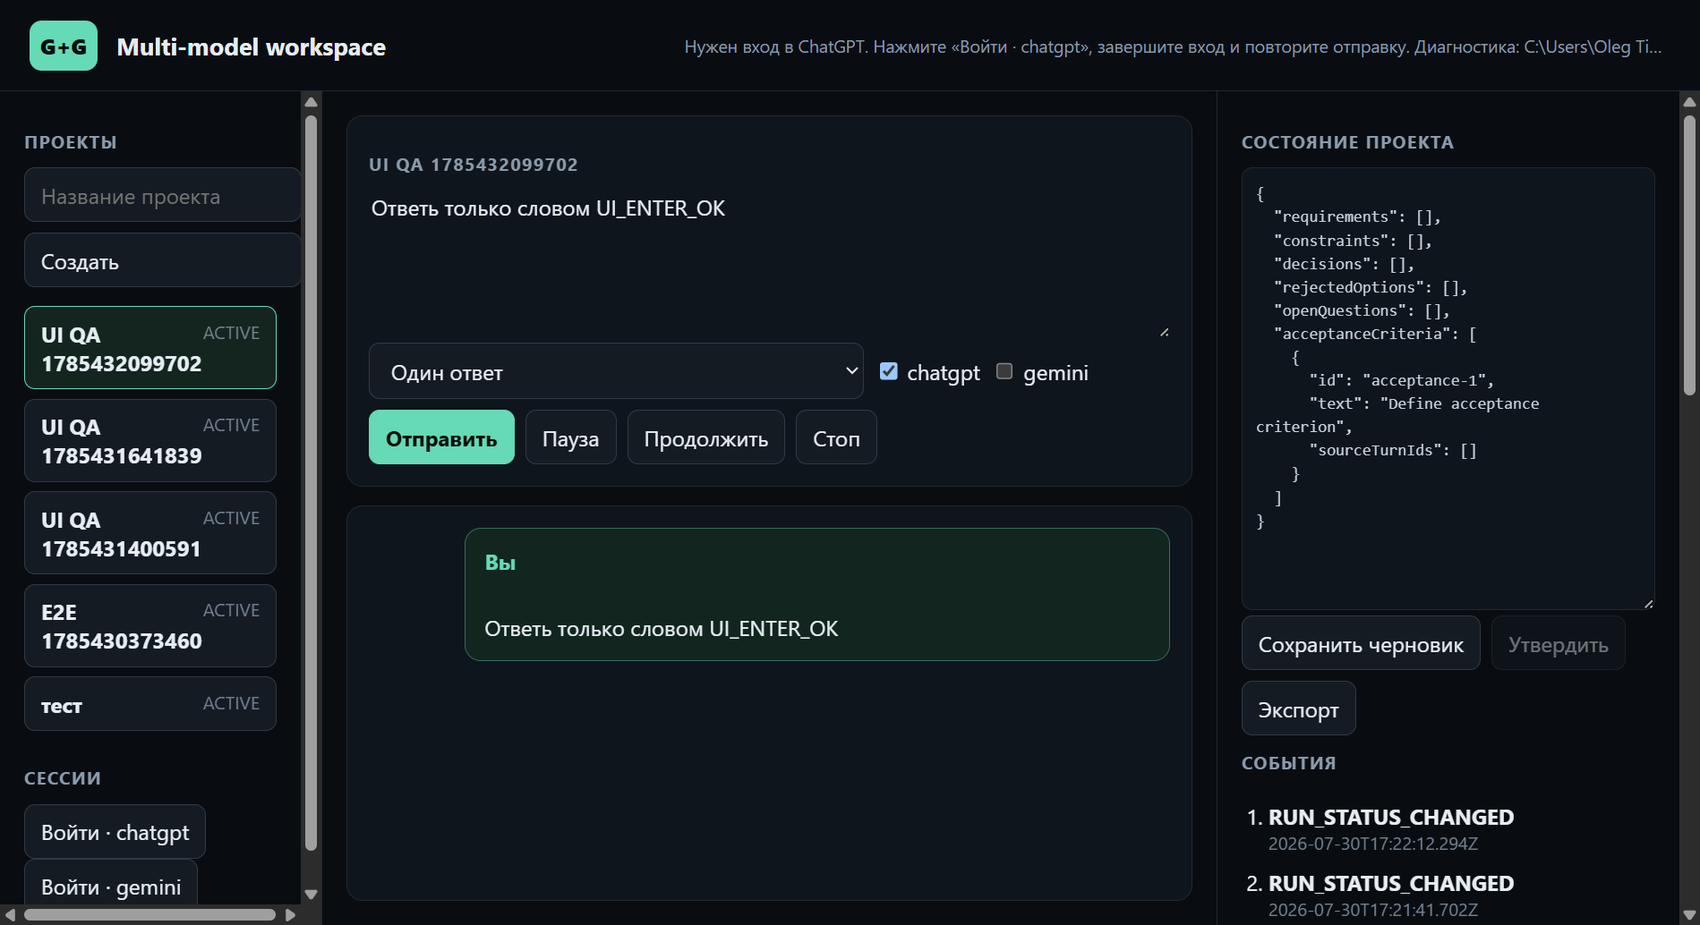
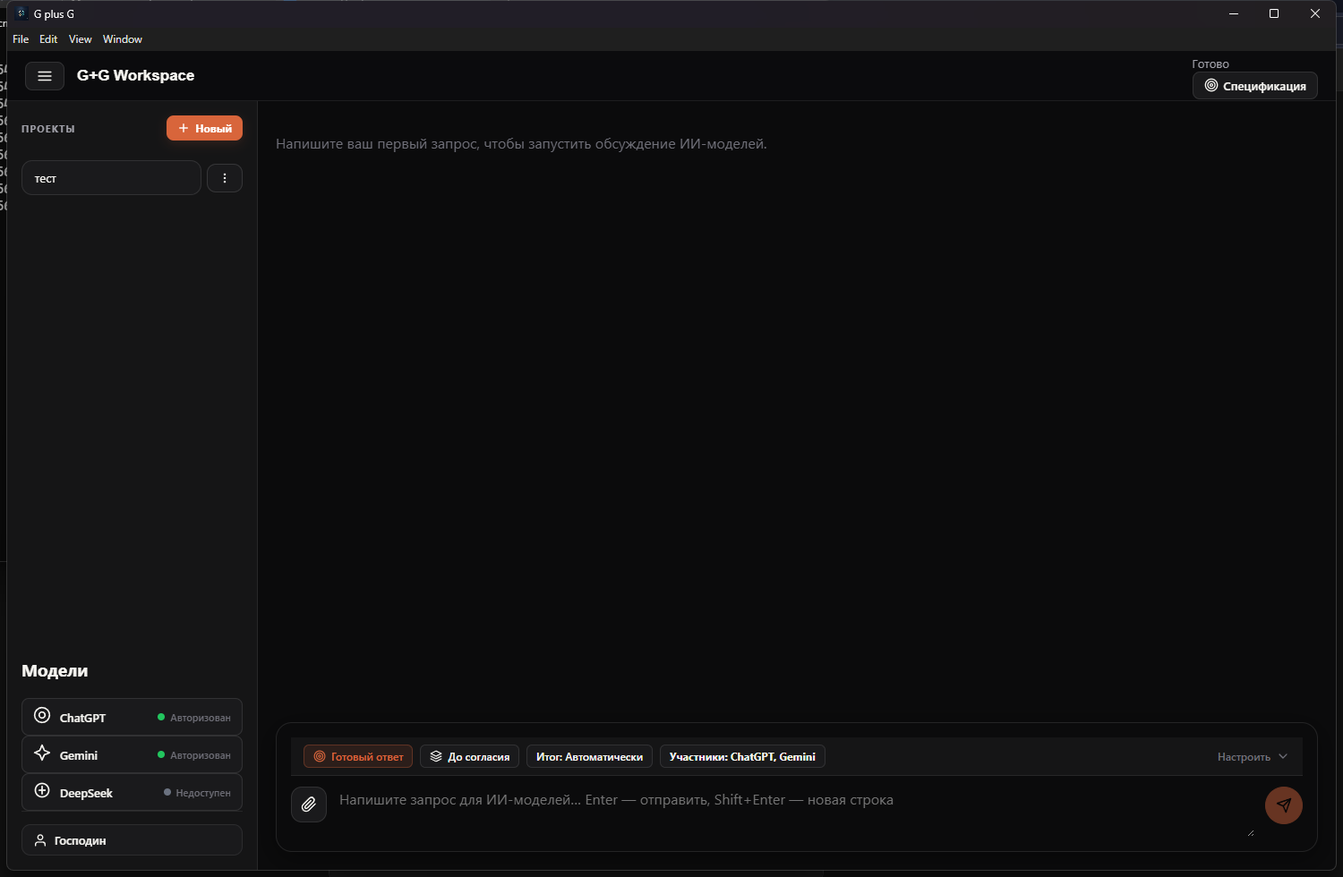
release: prepare public 0.0.1

diff --git a/tests/provider-auth-wiring.test.ts b/tests/provider-auth-wiring.test.ts
@@ -7,10 +7,11 @@ const rendererSource = readFileSync(
 );
 
 describe("provider authentication wiring", () => {
-  it("does not probe providers automatically on application startup", () => {
-    expect(rendererSource).not.toContain("refreshAllSupportedStatuses");
-    expect(rendererSource).not.toContain("void refreshProviderStatus(provider)");
-    expect(rendererSource).not.toContain("window.orchestrator.provider.status(");
+  it("checks supported providers once and sequentially on application startup", () => {
+    expect(rendererSource).toContain('await checkProviderStatus("chatgpt")');
+    expect(rendererSource).toContain('await checkProviderStatus("gemini")');
+    expect(rendererSource).toContain("window.setTimeout(resolve, 1_500)");
+    expect(rendererSource.match(/window\.orchestrator\.provider\.status\(/g)).toHaveLength(1);
   });
 
   it("uses the explicit login result as the provider status", () => {

diff --git a/tests/orchestrator.test.ts b/tests/orchestrator.test.ts
@@ -332,7 +332,7 @@ describe("Orchestrator", () => {
     });
 
     expect(result.consensusReached).toBe(false);
-    expect(result.outcome).toBe("LIMIT_REACHED");
+    expect(result.outcome).toBe("NO_CONSENSUS");
     expect(result.responses.filter((response) => response.phase === "DISCUSSION"))
       .toHaveLength(2);
   });

diff --git a/README.md b/README.md
@@ -1,147 +1,99 @@
-# G plus G
+# G+G
 
-> **Статус: Beta — активная разработка.** Интерфейсы и адаптеры веб-провайдеров могут меняться между релизами.
+> Локальное desktop-приложение, в котором ChatGPT и Gemini совместно обсуждают задачу и формируют единый результат.
 
+[![Release](https://img.shields.io/github/v/release/Nturalintelligence/G-plus-G?display_name=tag)](https://github.com/Nturalintelligence/G-plus-G/releases)
 [![CI](https://github.com/Nturalintelligence/G-plus-G/actions/workflows/ci.yml/badge.svg)](https://github.com/Nturalintelligence/G-plus-G/actions/workflows/ci.yml)
-[![License: MIT](https://img.shields.io/badge/License-MIT-green.svg)](LICENSE)
+[![License: MIT](https://img.shields.io/badge/license-MIT-2ea44f.svg)](LICENSE)
 
-Локальное desktop-приложение для управляемого совместного обсуждения задач через
-ChatGPT Web и Gemini Web. Проекты, история, требования и решения остаются на
-компьютере пользователя; веб-интерфейсы провайдеров используются через видимый
-браузер и изолированные профили.
+G+G помогает работать с несколькими ИИ в одном проекте. Пользователь задаёт вопрос один раз, приложение передаёт его выбранным моделям, сохраняет ход обсуждения и показывает итоговый ответ отдельно от внутренней дискуссии.
 
-В приложение входят ограниченная multi-model оркестрация, SQLite, визуальный
-конструктор спецификации с привязкой к ответам моделей, проверяемый экспорт,
-резервные копии, диагностика и Electron UI.
-Локальный Центр качества показывает успешность, задержки и повторные попытки
-отдельно для ChatGPT и Gemini, не сохраняя содержимое сообщений.
+Данные проектов хранятся локально. Для ChatGPT и Gemini используются отдельные видимые браузерные профили: пользователь входит в аккаунты самостоятельно, а пароли, cookies и токены не отправляются на сторонний сервер G+G.
 
-## Интерфейс
+## Как выглядит приложение
 
-![Рабочее пространство G plus G](docs/screenshots/workspace.png)
+![Рабочее пространство G+G](docs/screenshots/workspace.png)
 
-| Параллельный запуск | Результаты ChatGPT и Gemini |
+| Обсуждение моделей | Настройки и состояние провайдеров |
 | --- | --- |
-| ![Пустое рабочее пространство](docs/screenshots/parallel-run.png) | ![Результат параллельного запуска](docs/screenshots/parallel-result.png) |
+| ![Обсуждение ChatGPT и Gemini](docs/screenshots/discussion.png) | ![Настройки G+G](docs/screenshots/settings.png) |
 
-Короткая видеодемонстрация будет добавлена к ближайшему GitHub Release.
+## Что умеет версия 0.0.1
 
-## Architecture
+- создавать локальные проекты и хранить историю в SQLite;
+- работать с ChatGPT Web и Gemini Web через раздельные браузерные сессии;
+- запускать один ответ, последовательное обсуждение, параллельную работу и ограниченный режим дебатов;
+- показывать готовый ответ отдельно от промежуточных реплик моделей;
+- сохранять требования, ограничения, решения и критерии приёмки проекта;
+- прикреплять TXT, Markdown, PDF, PNG и JPEG в управляемое локальное хранилище;
+- создавать резервные копии без browser-профилей и учётных данных;
+- показывать локальные метрики успешности, задержек и повторов;
+- останавливать выполнение и восстанавливать незавершённые операции после перезапуска.
 
-```mermaid
-flowchart LR
-    UI[Electron + React UI] --> IPC[Typed IPC]
-    IPC --> ORCH[Orchestrator]
-    ORCH --> C[ChatGPT web adapter]
-    ORCH --> G[Gemini web adapter]
-    ORCH --> DB[(Local SQLite)]
-    C --> B[Visible isolated browser profiles]
-    G --> B
-    ORCH --> EXP[Verified spec export]
-```
+## Быстрый запуск из исходного кода
 
-Проекты, история и диагностика хранятся локально. Адаптеры работают через видимые браузерные сессии пользователя; приложение не требует передачи cookies или токенов стороннему backend.
-
-## Установка и запуск
+Требуются Windows, Node.js 20+ и npm.
 
 ```powershell
+git clone https://github.com/Nturalintelligence/G-plus-G.git
+cd G-plus-G
 npm install
 npx playwright install chromium
-npm run login
-npm run send -- --message "Ответь одним словом: тест"
-npm run verify -- --count 20
-npm start -- login --provider gemini
-npm start -- send --provider gemini --message "Ответь одним словом: тест"
 npm run desktop:start
 ```
 
-`login` открывает видимый Chromium и ждёт ручной авторизации. Окно не закрывается,
-пока на странице видны кнопки входа/регистрации; наличие анонимного поля ввода не
-считается авторизацией. Сессия сохраняется в общей папке данных приложения и
-используется при следующих запусках.
+После запуска откройте настройки, выберите ChatGPT или Gemini и выполните обычный ручной вход в появившемся браузере. G+G сохраняет сессии отдельно для каждого провайдера.
 
-## Как определяется ответ
+## Принцип работы
 
-Перед отправкой сохраняется снимок всех найденных ответов ассистента: DOM id,
-порядковый номер, нормализованный текст и SHA-256. После подтверждения появления
-конкретного пользовательского сообщения принимается только один новый узел,
-которого не было в снимке. Изменение старого «последнего блока» ответом не считается.
-При неоднозначности прототип останавливается.
+```mermaid
+flowchart LR
+    U["Пользователь"] --> UI["Electron + React"]
+    UI --> O["Локальный оркестратор"]
+    O --> C["ChatGPT Web"]
+    O --> G["Gemini Web"]
+    O --> DB[("SQLite и файлы проекта")]
+    C --> O
+    G --> O
+    O --> R["Готовый ответ"]
+```
 
-Ответ считается завершённым, когда исчезла кнопка остановки генерации и текст
-нового узла стабилен не менее 2,5 секунды. CAPTCHA и страницы проверки приводят к
-немедленной остановке без попытки обхода.
+Renderer не получает прямой доступ к Node.js или shell. Вызовы проходят через ограниченный preload/IPC-слой. Тексты моделей, вложения и ссылки считаются недоверенными данными. Подробнее: [модель безопасности](docs/SECURITY_MODEL.md) и [архитектура](docs/architecture.md).
 
-## Проверка этапа
+## Приватность
+
+- проекты и история остаются на компьютере пользователя;
+- ChatGPT и Gemini используют независимые browser-профили;
+- резервные копии не включают cookies, токены и browser-профили;
+- логи маскируют чувствительные поля;
+- приложение не обходит CAPTCHA и ограничения провайдеров.
+
+## Ограничения раннего релиза
+
+- интерфейсы сайтов ChatGPT и Gemini могут меняться и требовать обновления адаптеров;
+- первая авторизация выполняется вручную;
+- DeepSeek и остальные модели в интерфейсе пока являются экспериментальными и не имеют готового web-адаптера;
+- выполнение кода без CLI пока не входит в стабильный релиз;
+- установщик Windows ещё не подписан коммерческим сертификатом.
+
+## Проверка проекта
 
 ```powershell
+npm run security:guard
+npm run desktop:typecheck
 npm run check
-npm run verify -- --count 20
 ```
 
-Автоматические тесты проверяют логику привязки ответа. Команда `verify` выполняет
-реальный последовательный прогон, используя уникальный маркер в каждом запросе.
-После успешного прогона закройте приложение и повторите `send`, чтобы вручную
-подтвердить сохранение авторизации.
+Тяжёлые браузерные проверки требуют пользовательских аккаунтов и запускаются отдельно от обычного CI.
 
-Изменение DOM ChatGPT может потребовать обновления селекторов. При ошибке JSON-отчёт
-с безопасной диагностикой создаётся в `%APPDATA%\multi-llm-orchestrator-feasibility\logs`
-на Windows. Там же находится `application.jsonl`. Cookies, токены и содержимое
-профиля в отчёты не попадают.
+## Документация
 
-## Этап 1: локальные проекты
+- [текущая матрица функций](docs/FEATURE_MATRIX.md);
+- [архитектура](docs/architecture.md);
+- [модель безопасности](docs/SECURITY_MODEL.md);
+- [известные ограничения](docs/KNOWN_ISSUES.md);
+- [сценарий ручной приёмки](docs/UAT_RUNBOOK.md).
 
-```powershell
-npm start -- project:create --name "Мой проект"
-npm start -- project:list
-npm start -- project:open --id "prj_..."
-```
+## Лицензия
 
-SQLite хранится в общей папке данных приложения как `orchestrator.sqlite`. При первом обращении
-миграции применяются автоматически. База использует WAL, внешние ключи и полные
-синхронные записи. События защищены SQL-триггерами от изменения и удаления.
-При открытии проекта незавершённые ходы и попытки атомарно переводятся в
-`INTERRUPTED`, а факт восстановления добавляется в event log.
-
-Текущая готовность этапов и известные ограничения описаны в
-[`docs/implementation-status.md`](docs/implementation-status.md).
-
-## Предрелизная проверка и резервные копии
-
-Перед ручным тестированием проверьте среду:
-
-```powershell
-npm run preflight
-npm run release:info
-```
-
-`preflight` проверяет версию Node.js, доступность Playwright/браузера и возможность
-записи в каталог данных. `release:info` печатает версию приложения, Git-коммит,
-платформу и фактический каталог данных — этот отчёт полезно прикладывать к баг-репорту.
-
-Создание и проверка резервной копии:
-
-```powershell
-npm run backup -- --file "$env:USERPROFILE\Documents\G-plus-G backups"
-npm run backup:validate -- --file "C:\...\g-plus-g-backup-..."
-```
-
-Копия создаётся как каталог с отметкой времени. SQLite снимается через
-`VACUUM INTO`, поэтому в копию попадают зафиксированные данные из WAL. Manifest
-содержит SHA-256 и результат `PRAGMA quick_check`. Содержимое browser-профилей,
-cookies, токены и тексты логов не копируются. Настройки, если они есть, проходят
-рекурсивное маскирование чувствительных ключей.
-
-Восстановление требует закрытого desktop-приложения:
-
-```powershell
-npm run restore -- --file "C:\...\g-plus-g-backup-..."
-```
-
-Перед заменой выполняются проверка manifest, контрольной суммы и целостности
-SQLite. Предыдущая база сохраняется рядом как `orchestrator.sqlite.before-restore`.
-
-Те же безопасные операции доступны в desktop-приложении в разделе
-«Профиль и настройки → Диагностика и данные». Там можно проверить окружение,
-создать резервную копию, открыть фактическую папку данных и сбросить отдельную
-браузерную сессию. Сброс сессии требует подтверждения и не удаляет проекты.
+[MIT](LICENSE). Проект не является официальным продуктом OpenAI или Google и не связан с ними юридически.

diff --git a/SECURITY.md b/SECURITY.md
@@ -1,0 +1,9 @@
+# Security policy
+
+Пожалуйста, не публикуйте сведения об уязвимостях, cookies, токены, browser-профили или пользовательские базы данных в Issues.
+
+Сообщите об уязвимости владельцу репозитория через приватный канал GitHub Security Advisories: **Security → Advisories → Report a vulnerability**.
+
+В отчёте укажите версию G+G, операционную систему, ожидаемое и фактическое поведение, а также минимальные шаги воспроизведения. Перед отправкой удалите личные данные и содержимое аккаунтов провайдеров.
+
+Поддерживается последняя опубликованная версия. Экспериментальные ветки не считаются стабильными и могут содержать незавершённые функции.
